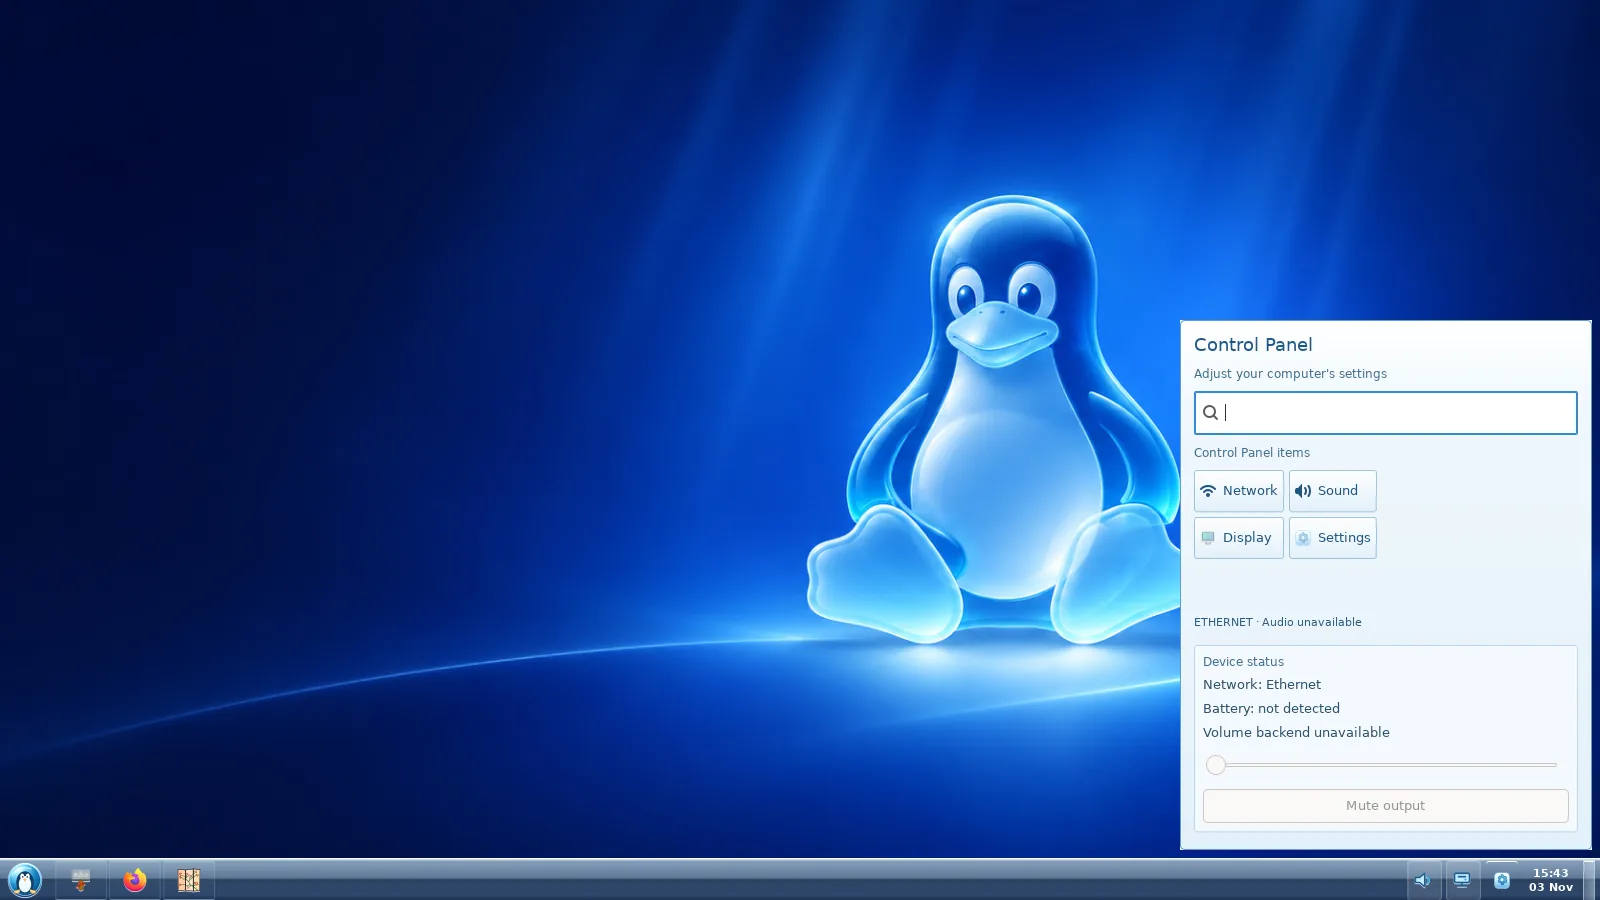
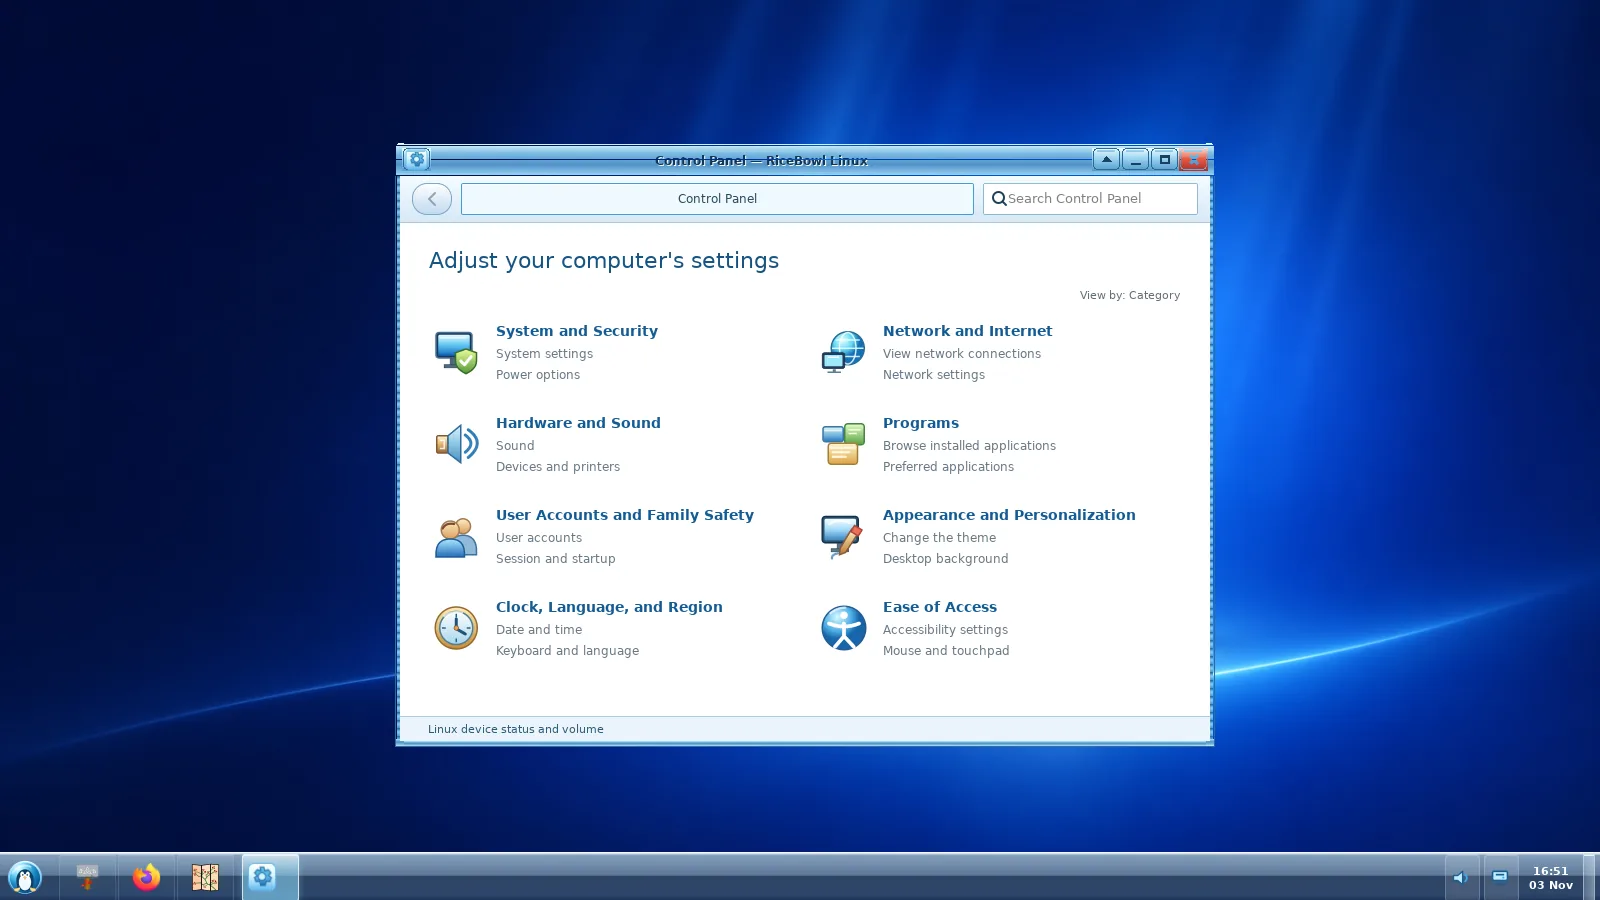
docs(win7): checked-in current X11 Start, Control Panel and Thunar captures

diff --git a/screenshots/current/README.md b/screenshots/current/README.md
@@ -1,17 +1,22 @@
 # Current RiceBowl screenshot gallery
 
-Only the last verified **actual** virtual-X11 captures are retained in this directory.
-Each `*-start.webp`, `*-controls.webp` and `*-workspace.webp` image was captured
-from one successful Linux/Xvfb GitHub Actions run of the
-`review/cross-rice-fidelity-20261103` branch on 3 November 2026
-(workflow run `41666644729`, source `c3406bc572f6f314d3acacb1f5572c6b08c5508d`).
-Images are WebP-optimized from the **1600×900** screenshots; the original
-uncompressed PNGs remain in that CI run's screenshot artifact.
+Only the latest verified **actual** virtual-X11 captures are retained in this directory.
+All are WebP-optimized from genuine **1600×900** GTK/XFWM4 captures, not mockups.
 
-The 3 November second-pass Windows 7 Control Panel/Superbar code is **newer**
-than `aero-start.webp`, `aero-controls.webp` and `aero-workspace.webp`. These
-images are historical for that rice until a new green native XFWM4 capture
-is inspected and checked in. The other five non-macOS rices are unchanged.
+Capture provenance (3 November 2026):
+
+- **Windows 7 Aero (`aero-*.webp`)**: passing GitHub Actions run
+  [`41678284256`](https://github.com/CopyPasteUser/RiceBowl/actions/runs/41678284256),
+  branch `feat/win7-fidelity-round2`, source
+  `6bb1b6d0c6546a698efdc8207da7394941b4ecd7`. This includes the actual
+  48px Superbar, new category Control Panel and all eight original Aero icons.
+- **Windows 10, XP, Classic 98, ChromeOS and Frutiger**: passing Actions run
+  [`41666644729`](https://github.com/CopyPasteUser/RiceBowl/actions/runs/41666644729),
+  source `c3406bc572f6f314d3acacb1f5572c6b08c5508d`.
+
+Uncompressed PNG sources, including the 1024×768 tests, remain in their
+respective CI run artifacts. The other five rices were not cosmetically changed
+by the Windows 7 review.
 
 The `workspace` images display a real Thunar process under a real XFWM4 window
 manager, using the same GTK/icon theme and Thunar view preferences that RiceBowl

diff --git a/WIN7_AERO_ROADMAP.md b/WIN7_AERO_ROADMAP.md
@@ -3,8 +3,9 @@
 Status: Windows 7 cosmetic fidelity shipped to `main` via PR #14. The additional
 Superbar milestone (grouping, previews, Jump Lists, Peek and latest gallery) passed
 native Xvfb CI in pull request #15. Physical Mint/XFCE acceptance remains open. The published
-`v0.9.1` package is unchanged. A second fidelity pass is being validated on a
-separate branch before promotion to `main`.
+`v0.9.1` package is unchanged. The second fidelity pass passed the complete
+native Xvfb/GTK/XFWM4 CI matrix in PR #22 and received fresh gallery images;
+physical Linux Mint acceptance remains open.
 
 ## Reference and constraints
 
@@ -62,7 +63,7 @@ All art here is originally drawn. We do not import Microsoft logos, wallpapers, 
   Wnck's full-resolution icon for live task buttons.
 - [x] Add pure category/action tests and a native GTK smoke/navigation check;
   isolate XFWM4 in the virtual-X11 Control Panel capture.
-- [ ] Confirm fresh 1600×900 and 1024×768 CI captures, inspect the resulting
+- [x] Confirm fresh 1600×900 and 1024×768 CI captures, inspect the resulting
   Start/Control Panel/Thunar screenshots, then update the current gallery.
 
 - [ ] Physically test on the owner's Mint XFCE laptop at its own DPI and one external monitor: menu anchor, dock struts, Thunar, sound/battery/network widgets, pin/unpin, All Programs, Super_L and Control_R.

diff --git a/WINDOWS7.md b/WINDOWS7.md
@@ -5,10 +5,10 @@ original RiceBowl Linux artwork, not Microsoft binaries, icons or wallpaper.
 
 ## Screenshots & coverage
 
-These images show genuine windows from the **previous native virtual-X11 CI
-run**, before the second Control Panel/Superbar fidelity pass. The newly
-designed framed Control Panel still needs a fresh CI capture before the gallery
-can represent it; owner hardware verification is separate.
+These are real XFWM4/GTK3 desktop captures from the passing virtual-X11 CI run
+[`41678284256`](https://github.com/CopyPasteUser/RiceBowl/actions/runs/41678284256).
+They include the second Control Panel/Superbar fidelity pass. The same pipeline
+also checks **1024×768** placement. Owner Mint hardware verification is separate.
 
 ### Desktop and taskbar
 

diff --git a/README.md b/README.md
@@ -85,8 +85,9 @@ Superseded screenshots are excluded.
 
 [Current Control Panels and six actual file-manager workspaces](screenshots/current/) · [CI full-resolution captures](https://github.com/CopyPasteUser/RiceBowl/actions/workflows/ci.yml)
 
-The checked-in Aero gallery still illustrates the **previous** Control Panel;
-the new eight-category window awaits fresh native-X11 screenshot verification.
+The Aero Start, Control Panel and Thunar screenshots come from the verified
+second-pass XFWM4 capture. Other rice images retain their last verified run;
+see [capture provenance](screenshots/current/README.md).
 
 | Windows 7: actual Thunar + XFWM4 | ChromeOS: actual Thunar + XFWM4 |
 | --- | --- |
